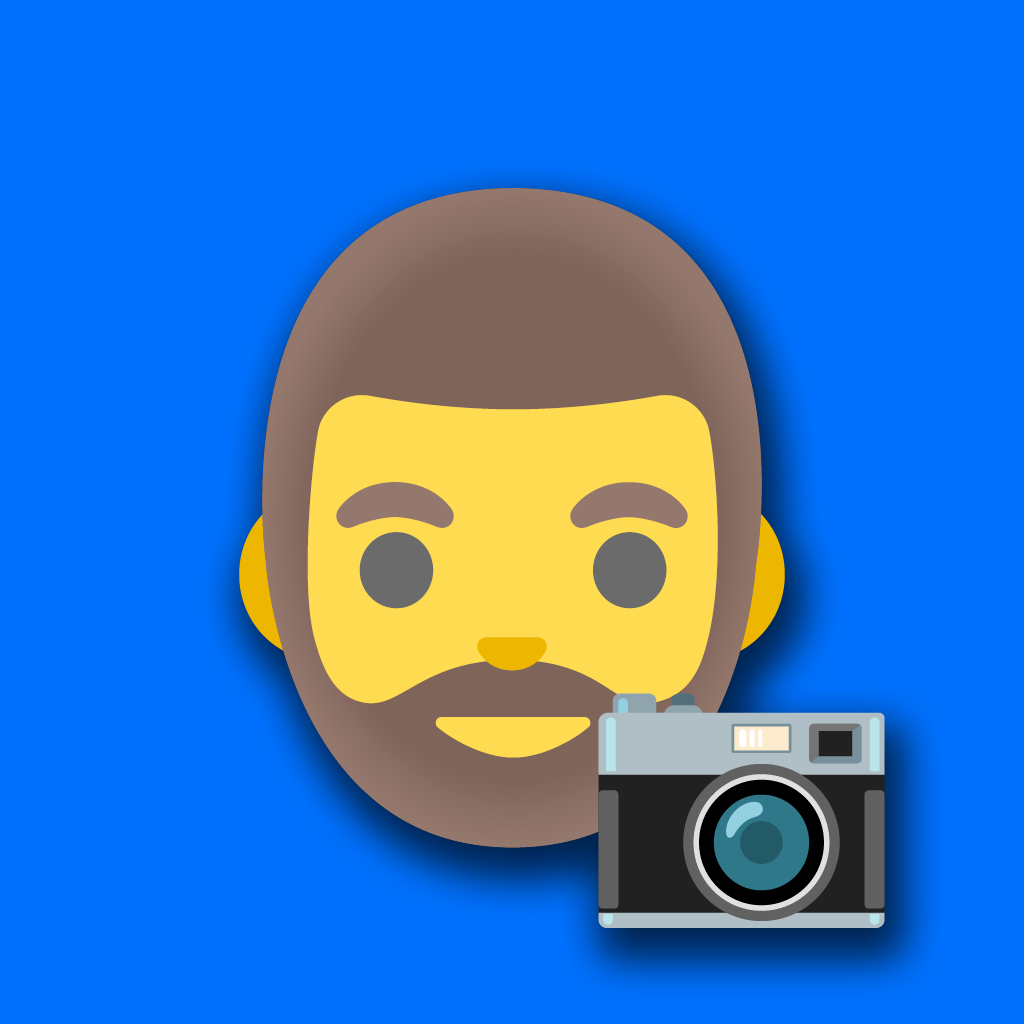
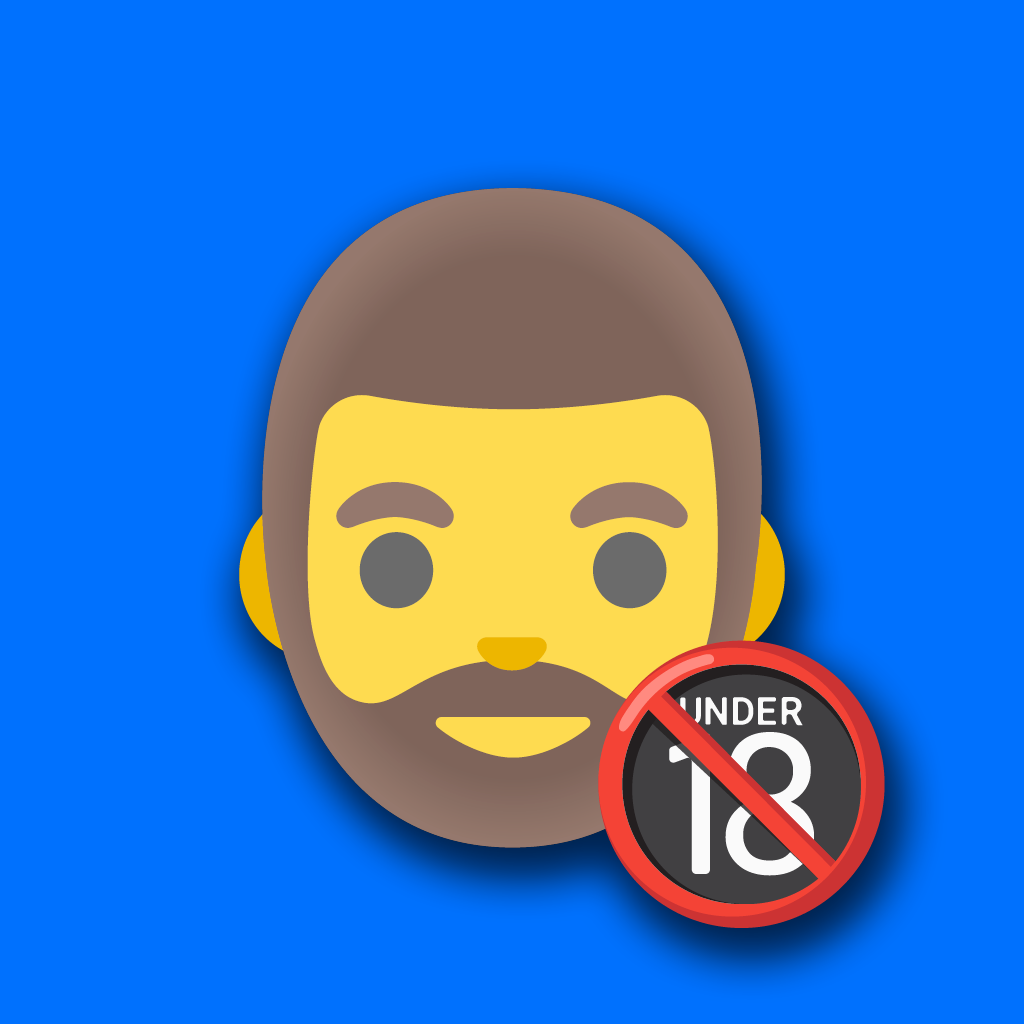
Updated to use labelling

Changed region(s): [[0.5625, 0.625, 0.9062, 0.9688]]

diff --git a/src/db/dbClient.ts b/src/db/dbClient.ts
@@ -165,6 +165,7 @@ class dbSingleton {
     limit = 50,
     cursor: string | undefined = undefined,
     imagesOnly: Boolean = false,
+    nsfwOnly: Boolean = false,
   ) {
     let query: { indexedAt?: any; cid?: any; algoTags: string } = {
       algoTags: tag,
@@ -172,6 +173,9 @@ class dbSingleton {
 
     if (imagesOnly) {
       query['embed.images'] = { $ne: null }
+    }
+    if (nsfwOnly) {
+      query['labels'] = { $in: ['porn', 'nudity', 'sexual'] }
     }
 
     if (cursor !== undefined) {
@@ -212,20 +216,32 @@ class dbSingleton {
     else return results
   }
 
-  async getUnlabelledPostsWithImages(limit = 100) {
+  async getUnlabelledPostsWithImages(limit = 100, lagTime = 5 * 60 * 1000) {
     const results = this.client
       ?.db()
       .collection('post')
       .find({
         'embed.images': { $ne: null },
         labels: null,
-        indexedAt: { $lt: new Date().getTime() - 5 * 60 * 1000 },
+        indexedAt: { $lt: new Date().getTime() - lagTime },
       })
       .sort({ indexedAt: -1, cid: -1 })
       .limit(limit)
       .toArray()
 
     return results || []
+  }
+
+  async updateLabelsForURIs(postEntries: { uri: string; labels: string[] }[]) {
+    for (let i = 0; i < postEntries.length; i++) {
+      this.client
+        ?.db()
+        .collection('post')
+        .findOneAndUpdate(
+          { uri: { $eq: postEntries[i].uri } },
+          { $set: { labels: postEntries[i].labels } },
+        )
+    }
   }
 
   async getRecentAuthorsForTag(tag: string, lastMs: number = 600000) {

diff --git a/src/addn/batchUpdate.ts b/src/addn/batchUpdate.ts
@@ -4,13 +4,18 @@ export default async function batchUpdate(agent, interval) {
   while (true) {
     console.log('core: updating...')
 
-    await new Promise((resolve) => setTimeout(resolve, 5000)) // interval))
+    await new Promise((resolve) => setTimeout(resolve, interval))
 
-    const unlabelledPosts = await dbClient.getUnlabelledPostsWithImages(100)
+    const unlabelledPosts = await dbClient.getUnlabelledPostsWithImages(
+      100,
+      interval,
+    )
 
     if (unlabelledPosts.length === 0) continue
 
     const chunkSize = 25
+
+    const postEntries: { uri: string; labels: string[] }[] = []
 
     for (let i = 0; i < unlabelledPosts.length; i += chunkSize) {
       const chunk = unlabelledPosts.slice(i, i + chunkSize).flatMap((item) => {
@@ -20,13 +25,22 @@ export default async function batchUpdate(agent, interval) {
 
       const posts = res.data.posts
 
+      if (posts.length === 0) {
+        chunk.forEach((uri) => {
+          postEntries.push({ uri: uri, labels: [] })
+        })
+      }
+
       for (let k = 0; k < posts.length; k++) {
+        const labels: string[] = []
         if (posts[k].labels.length !== 0) {
           posts[k].labels.forEach((label) => {
-            console.log(`${label.uri} has label ${label.val}`)
+            labels.push(label.val)
           })
         }
+        postEntries.push({ uri: posts[k].uri, labels: labels })
       }
     }
+    dbClient.updateLabelsForURIs(postEntries)
   }
 }

diff --git a/src/algos/dads.ts b/src/algos/dads.ts
@@ -37,6 +37,7 @@ export const handler = async (ctx: AppContext, params: QueryParams) => {
 
 export class manager extends AlgoManager {
   public name: string = shortname
+  public re = RegExp(/(?=.*(father))|(?=.*(dad(dy)?\b))/, 'i')
 
   public async periodicTask() {
     await this.db.removeTagFromOldPosts(
@@ -54,11 +55,8 @@ export class manager extends AlgoManager {
 
     const details = await getUserDetails(post.author, this.agent)
 
-    const re = RegExp(/(?=.*(father))|(?=.*(dad(dy)?\b))/, 'i')
-
     if (
-      `${details.description}`.match(re) !== null ||
-      `${details.displayName}`.match(re) !== null
+      `${details.description} ${details.displayName}`.match(this.re) !== null
     ) {
       match = true
     }

diff --git a/scripts/publishDadsMedia.ts b/scripts/publishDadsMedia.ts
@@ -21,12 +21,12 @@ const run = async () => {
 
   // A display name for your feed
   // Ex: What's Hot
-  const displayName = "What's Dad (Media)"
+  const displayName = "What's Dad (NSFW)"
 
   // (Optional) A description of your feed
   // Ex: Top trending content from the whole network
   const description =
-    "A feed of images from people with 'father' and 'dad' in bio. (For @clarabelle.xyz's birthday & 1k followers)"
+    "A feed of nsfw-flagged images from people with 'father' and 'dad' in bio. (For @clarabelle.xyz's birthday & 1k followers)"
 
   // (Optional) The path to an image to be used as your feed's avatar
   // Ex: ~/path/to/avatar.jpeg

diff --git a/src/subscription.ts b/src/subscription.ts
@@ -29,7 +29,7 @@ export class FirehoseSubscription extends FirehoseSubscriptionBase {
     const password = `${process.env.FEEDGEN_PASSWORD}`
 
     agent.login({ identifier: handle, password: password }).then(() => {
-      batchUpdate(agent, 15 * 60 * 1000)
+      batchUpdate(agent, 5 * 60 * 1000)
 
       Object.keys(algos).forEach((algo) => {
         this.algoManagers.push(new algos[algo].manager(db, agent))

diff --git a/src/algos/dads-media.ts b/src/algos/dads-media.ts
@@ -18,6 +18,7 @@ export const handler = async (ctx: AppContext, params: QueryParams) => {
     params.limit,
     params.cursor,
     true,
+    true,
   )
 
   const feed = builder.map((row) => ({
